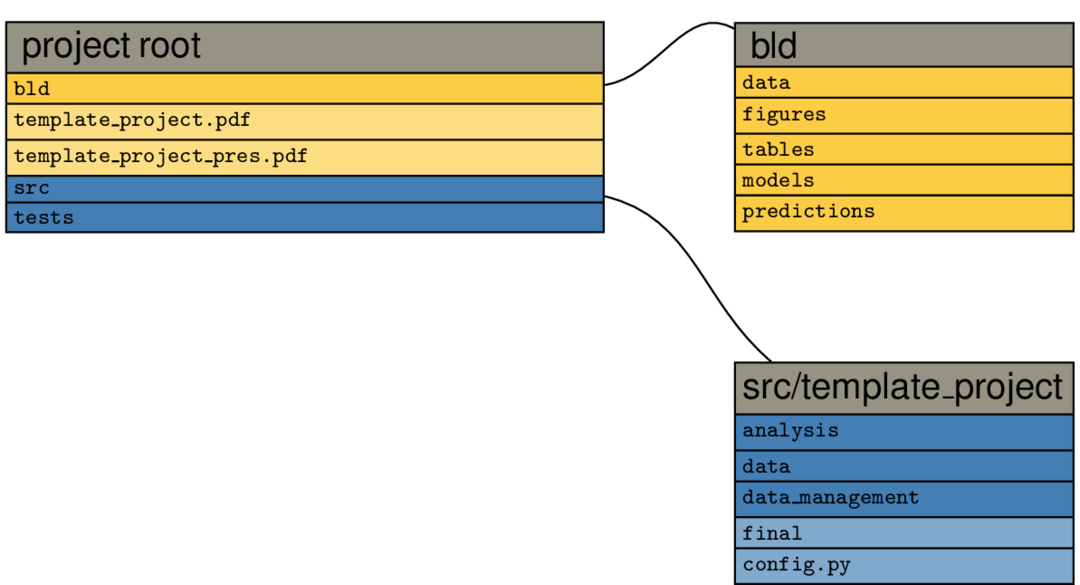
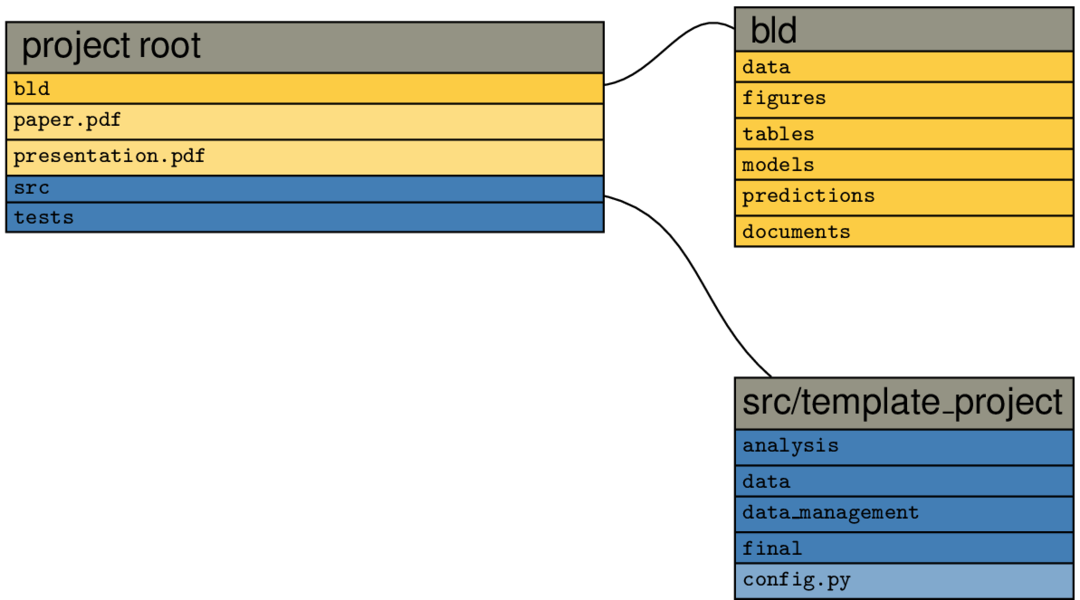
Update root_bld_src docs figure

diff --git a/docs_template/scripts/latex/root_bld_src.tex b/docs_template/scripts/latex/root_bld_src.tex
@@ -36,9 +36,9 @@
                 \nodepart{two}
                 \texttt{bld}
                 \nodepart{three}
-                \texttt{template\_project.pdf}
+                \texttt{paper.pdf}
                 \nodepart{four}
-                \texttt{template\_project\_pres.pdf}
+                \texttt{presentation.pdf}
                 \nodepart{five}
                 \texttt{src}
                 \nodepart{six}
@@ -47,14 +47,15 @@
 
             \node (2) [
                 rectangle split,
-                rectangle split parts=6,
+                rectangle split parts=7,
                 rectangle split part fill={
                         gray,
                         yellow!75,
                         yellow!75,
                         yellow!75,
                         yellow!75,
-                        yellow!75
+                        yellow!75,
+                        yellow!75,
                     },
                 draw,
                 text width=2.50cm,
@@ -75,6 +76,8 @@
                 \texttt{models}
                 \nodepart{six}
                 \texttt{predictions}
+                \nodepart{seven}
+                \texttt{documents}
             };
 
             \node (3) [
@@ -85,9 +88,7 @@
                         blue!75,
                         blue!75,
                         blue!75,
-                        blue!50,
-                        blue!50,
-                        blue!50,
+                        blue!75,
                         blue!50,
                     },
                 draw,
